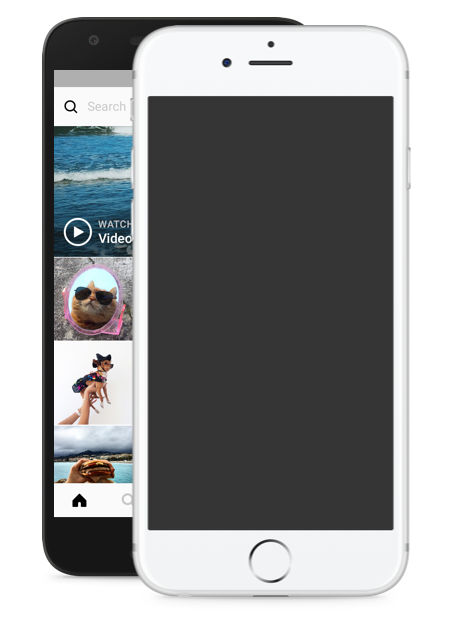
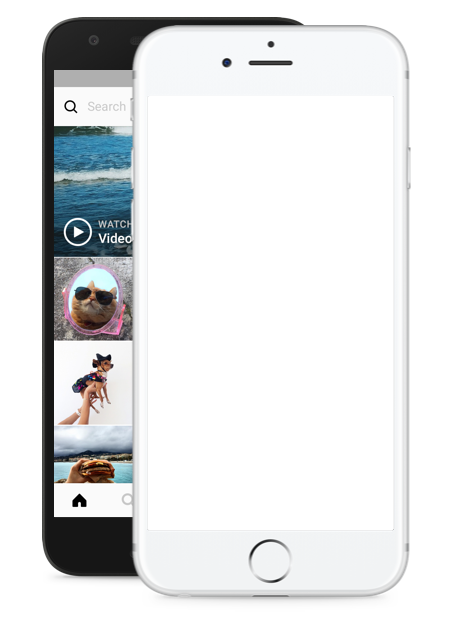
Add files via upload
Full website done.

diff --git a/insta.css b/insta.css
@@ -29,6 +29,7 @@ h4 {
     border:1px solid gainsboro;
     width: 300px;
     text-align: center;
+    
    
     
     
@@ -154,24 +155,28 @@ li{
     color: gray;
     cursor: text;
 }
-
-
-
-
-
-
-
-
-
-
-
-
 .ml {
-    
-    position: fixed;
-    margin-left: 560px;
-    margin-top: 90px
-    
-}
+    margin-left: 500px;
+    margin-top: 50px;
+    position: absolute;
+    }
+
+.nl {
+      margin-left: 650px;
+    margin-top: 150px;
+    position: absolute;
+    visibility: visible;
+    cursor: pointer;
+
+     } 
 
 
+
+
+
+
+
+
+
+
+     

diff --git a/insta.html b/insta.html
@@ -8,7 +8,14 @@
      
     <body>
         
-       <img src="m.png" class="ml">  
+       
+       <img src="m.png" class="ml">
+           
+        
+     <img src="1.jpg" class="nl">
+     
+   
+       
         <form class="frm">
         <img src="logo.png" class="lg">
          
